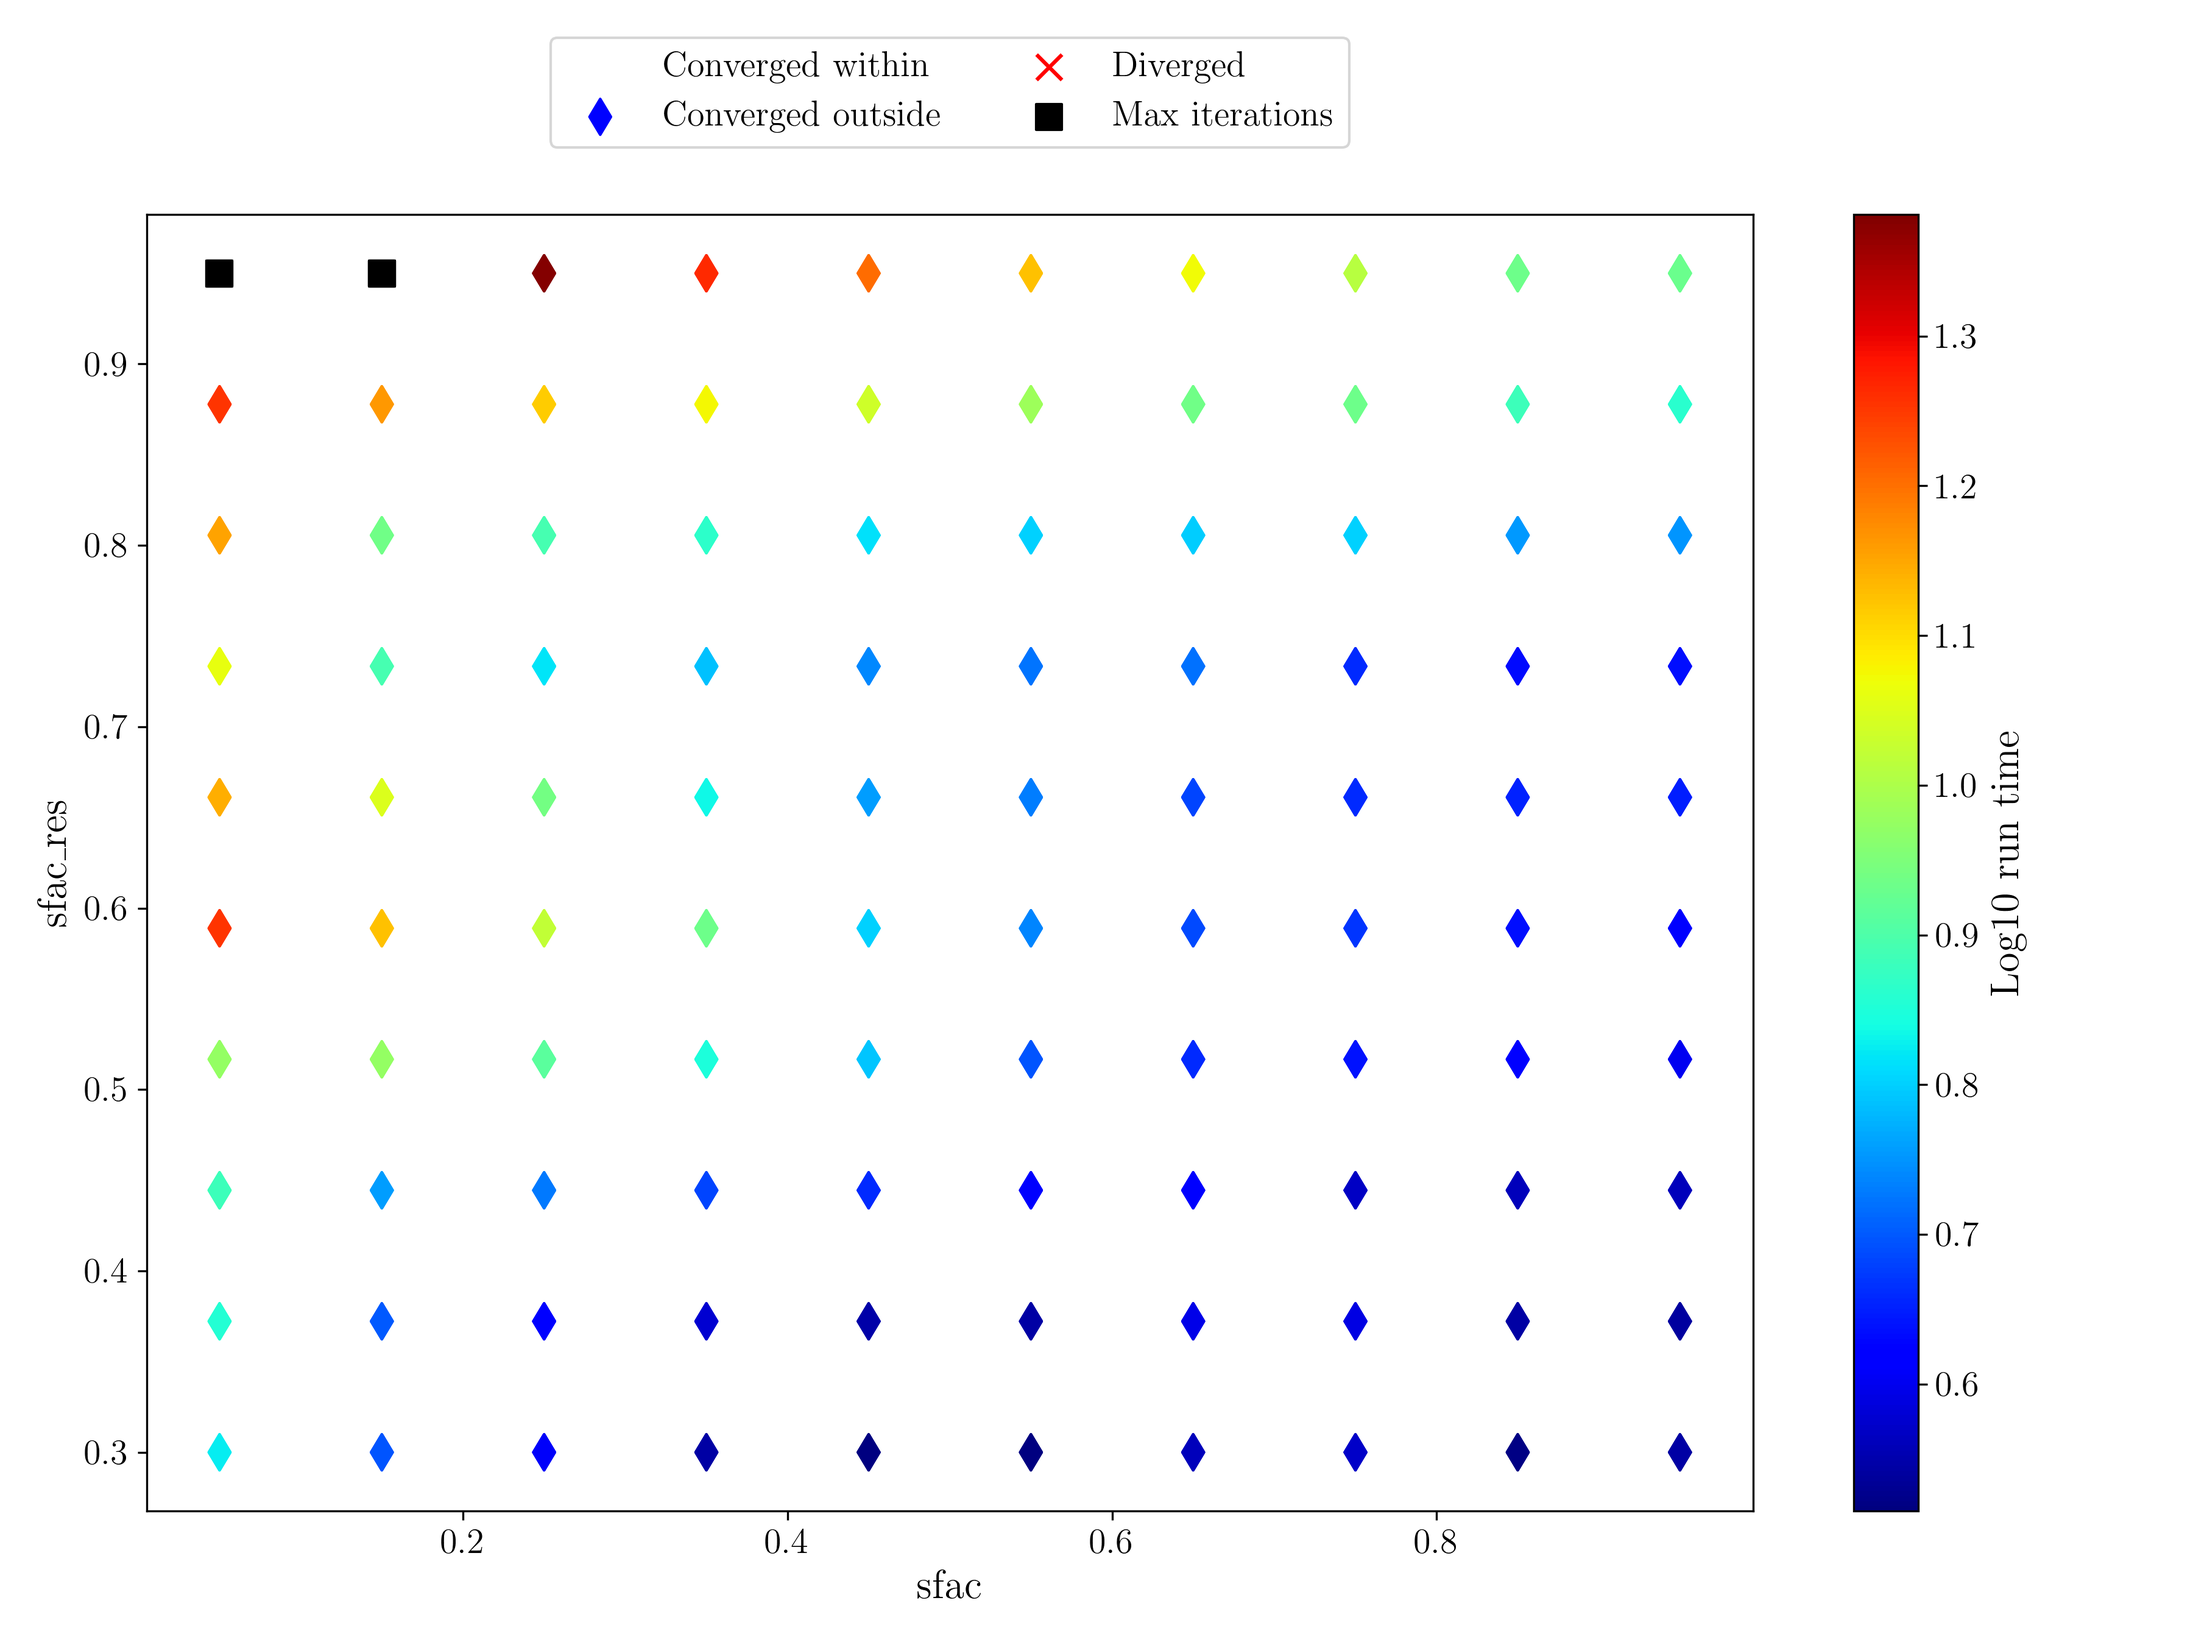
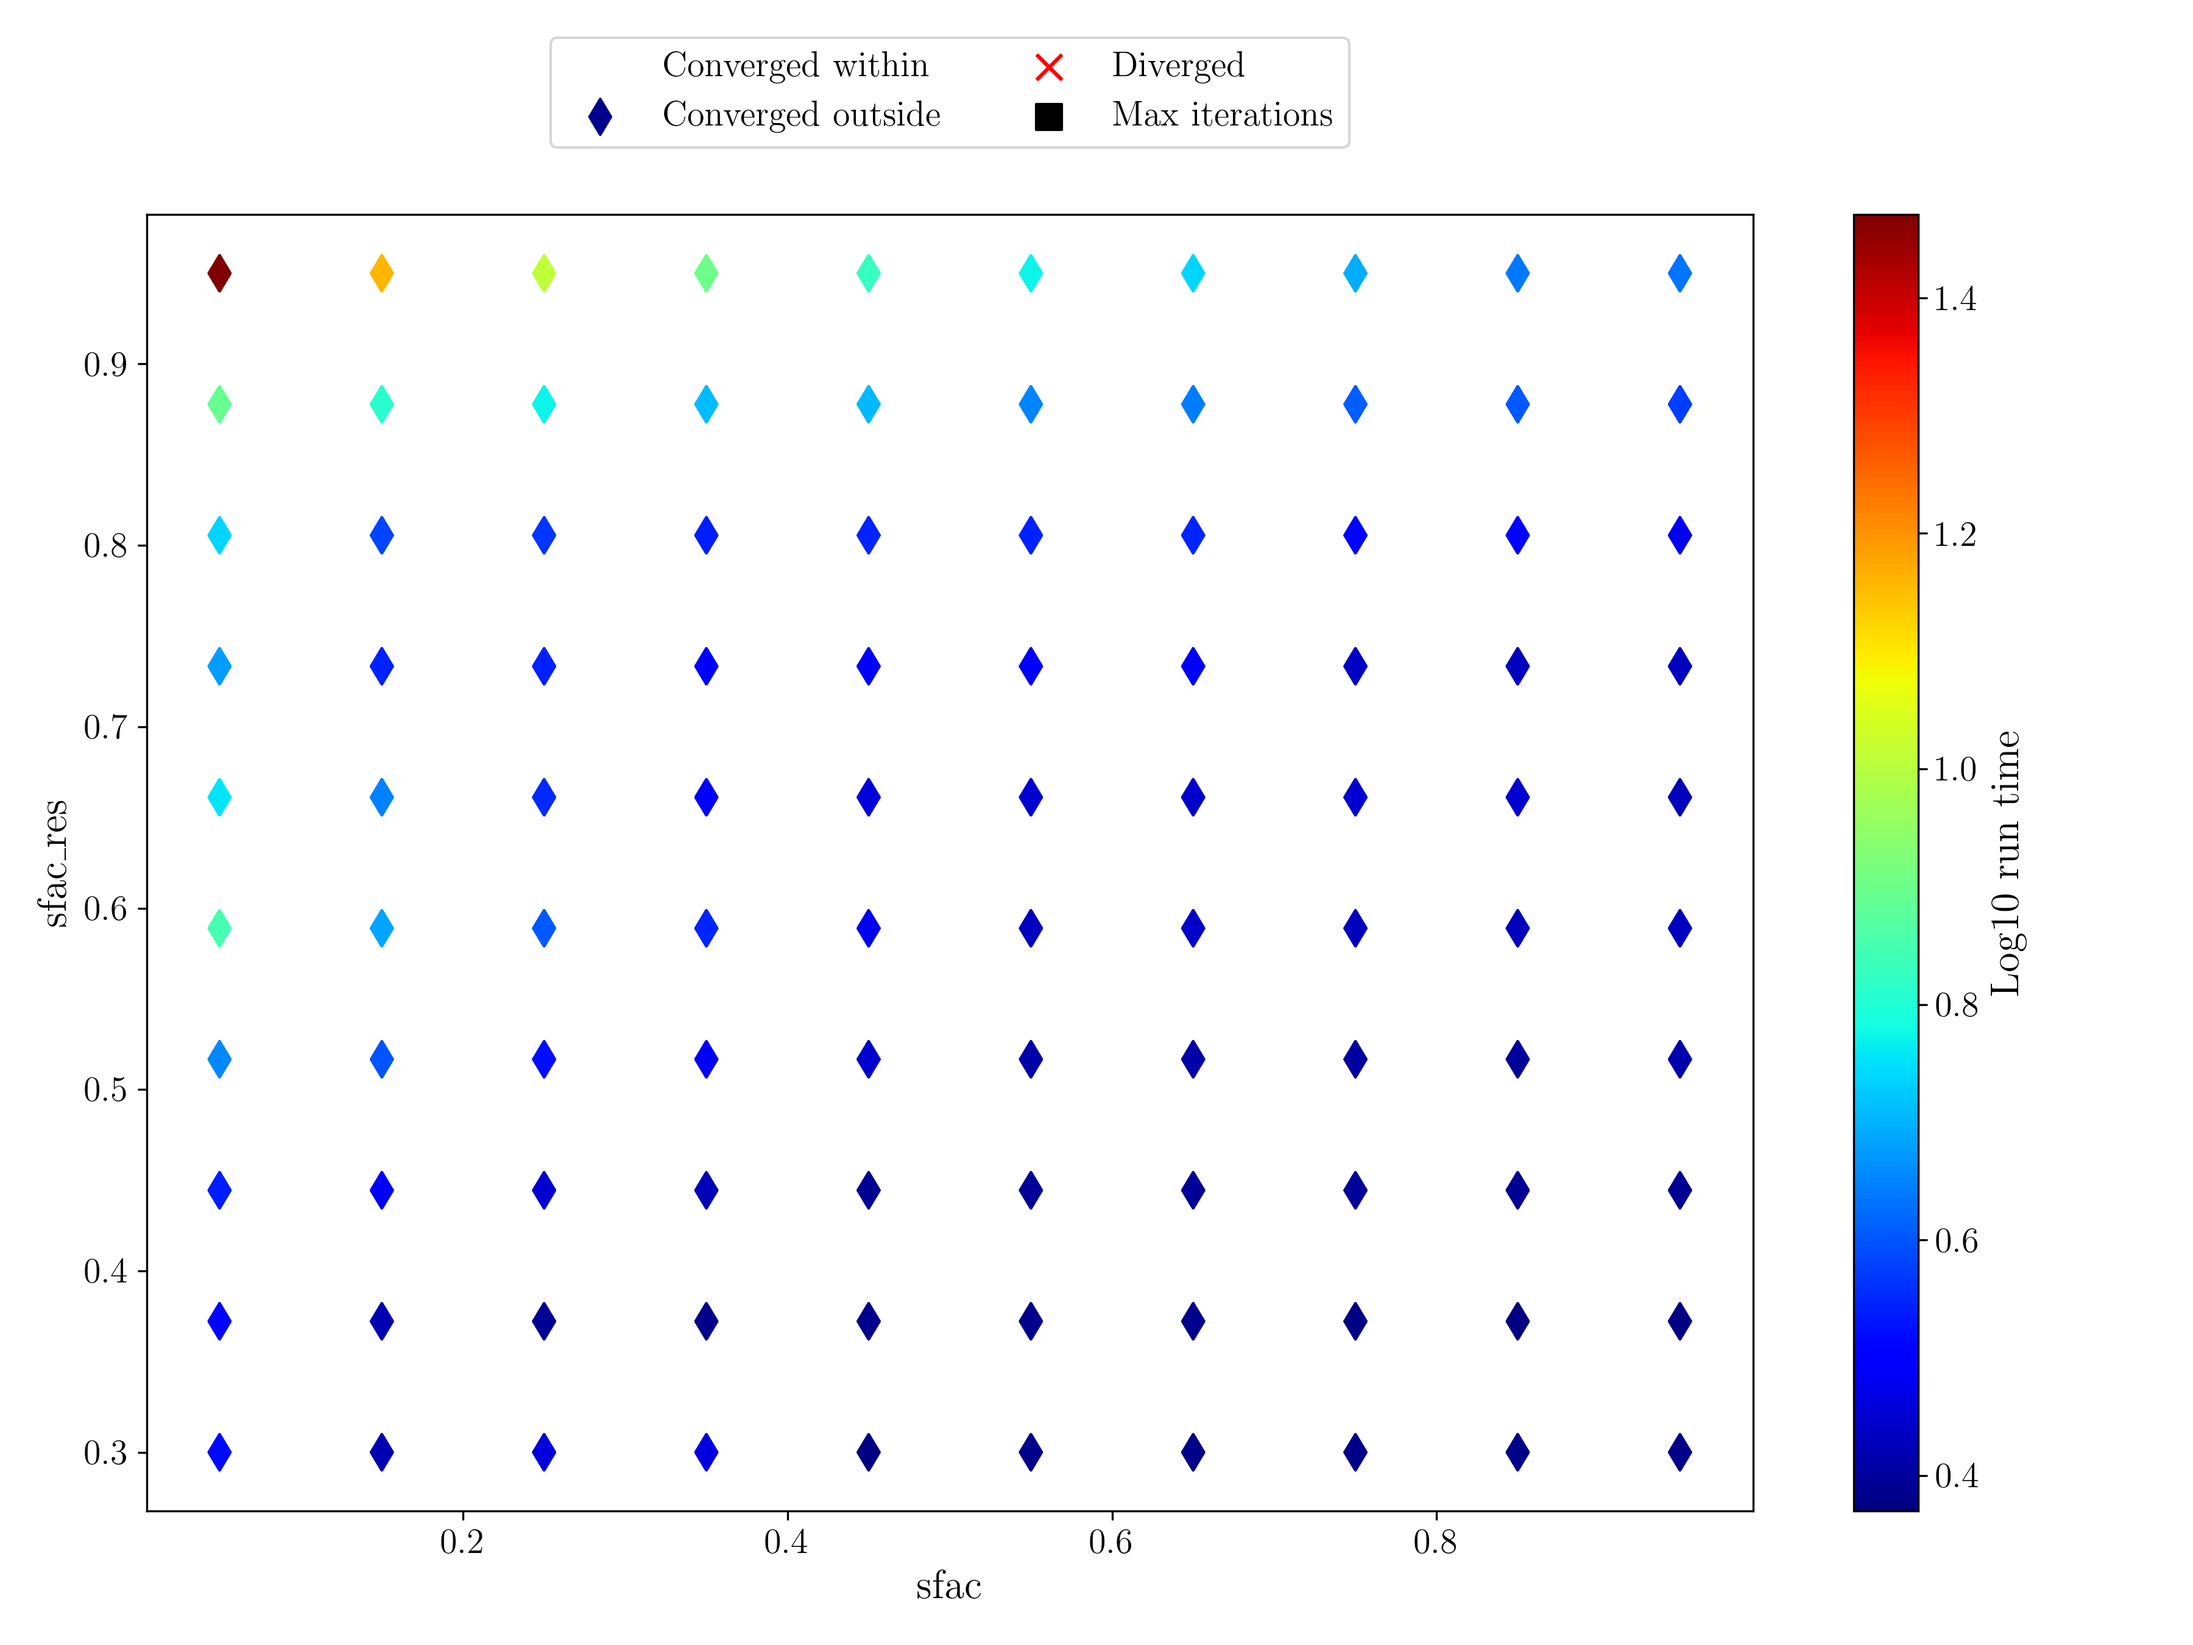
big data

diff --git a/report/final/improvements.py b/report/final/improvements.py
@@ -358,7 +358,7 @@ def plot_smoothing_fcorr(av_template, data):
 def plot_smoothing_sfac_res(av_template, data):
     
     # keep sfac = 0.8
-    av_template['cfl'] = 2
+    av_template['cfl'] = 0.8
 
     sfacs = np.linspace(0.05, 0.95, 10, endpoint = True)
     #cfls = np.logspace(-2, np.log10(1.5), 10, endpoint = True)
@@ -465,8 +465,8 @@ if __name__ == "__main__":
     av_template['fcorr'] = 0.8
     print(av_template)
     #plot_smoothing_cfl(av_template, 'dro_avg')
-    plot_smoothing_fcorr(av_template, 'dro_avg')
-    #plot_smoothing_sfac_res(av_template, 'dt')
+    #plot_smoothing_fcorr(av_template, 'dro_avg')
+    plot_smoothing_sfac_res(av_template, 'dt')
     #plot_smoothing_cfl_residual(av_template, 'dt')
 
     plt.show()
